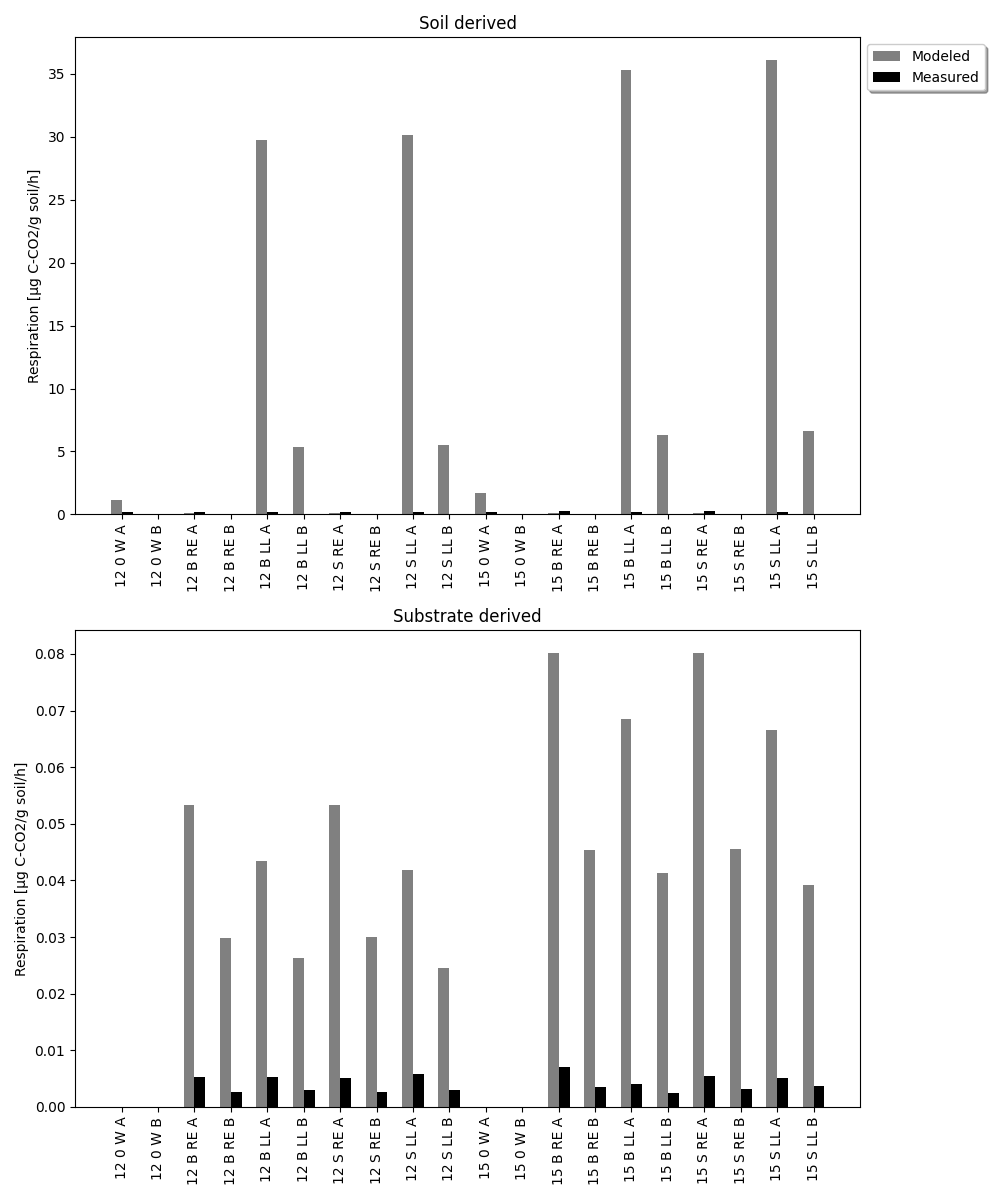
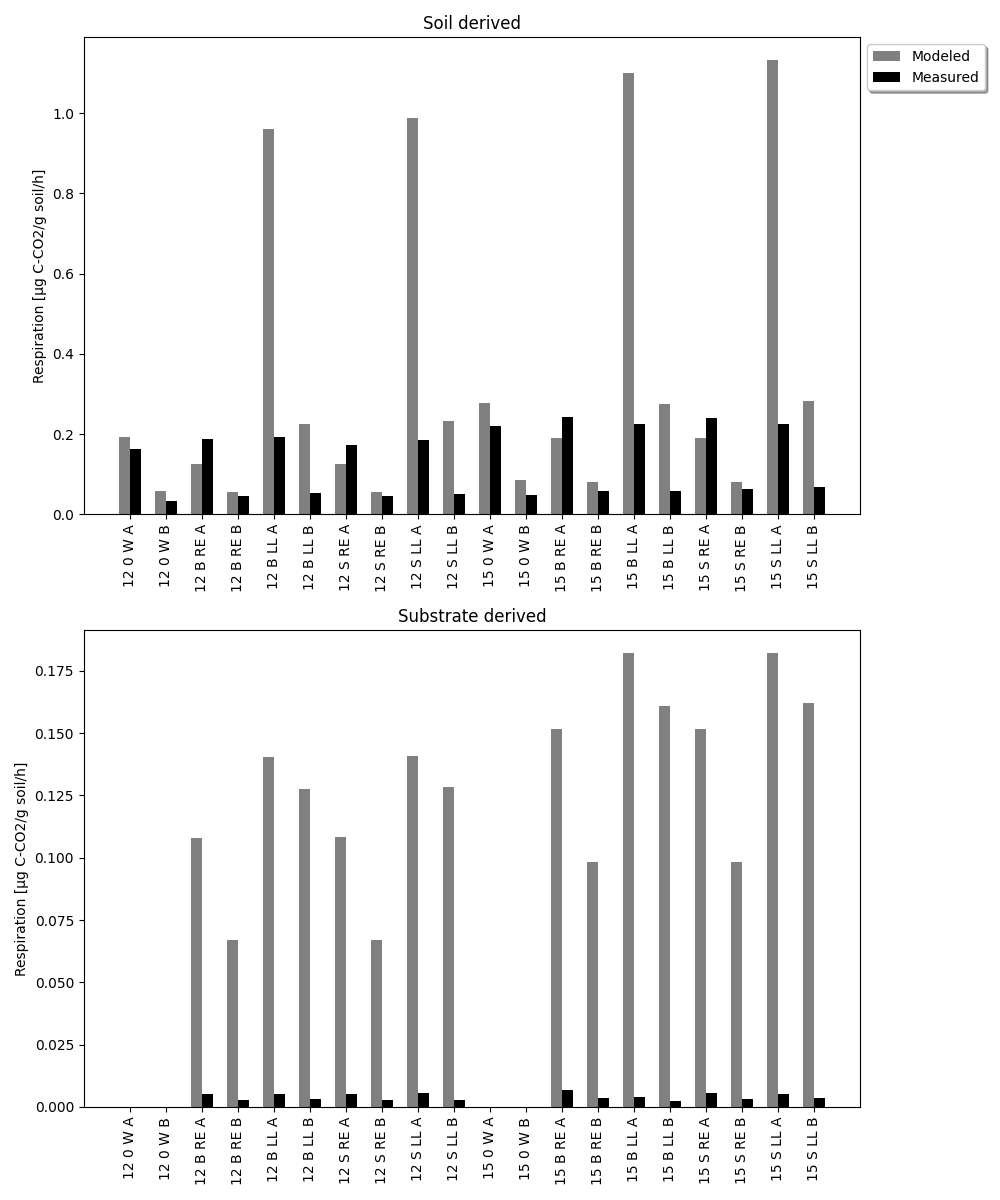
calculate RMSE and EF in functions

diff --git a/Potprim_main.py b/Potprim_main.py
@@ -37,13 +37,11 @@ except FileExistsError:
 
 ############## Modes #################################
 # set allowed values for mode
-modes = Literal[
-    "Normal", "Sensitivity", "Bayesian", "Jilkova2022", "Validation", "Histogram"
-]
+modes = Literal["Normal", "Sensitivity", "Bayesian", "Jilkova2022", "Validation"]
 options = get_args(modes)
 
 # set the mode to Normal, Sensitivity or Bayesian
-mode_ = "Bayesian"
+mode_ = "Validation"
 # check if mode was set correctly, if not stop the run
 assert mode_ in options, f'"{mode_}" is not in "{options}"'
 
@@ -111,6 +109,68 @@ def drawRespPlot(
         plt.savefig(os.path.join("./output/figures/", name))
 
     plt.close()
+
+
+############## RMSE ##################################
+def calculateRMSE(actual, predicted, variable, filepath):
+    actual = np.array(actual)
+    predicted = np.array(predicted)
+
+    rmse = np.sqrt(((predicted - actual) ** 2).mean())
+
+    # save as a one csv file
+    try:
+        os.makedirs(filepath)
+    except FileExistsError:
+        # directory already exists
+        pass
+
+    file_exists = os.path.isfile(os.path.join(filepath, "rmse.csv"))
+    file_is_empty = (
+        file_exists and os.path.getsize(os.path.join(filepath, "rmse.csv")) == 0
+    )
+
+    with open(os.path.join(filepath, "rmse.csv"), newline="", mode="a") as file:
+        csv_writer = csv.writer(file)
+
+        # Write the header
+        if not file_exists or file_is_empty:
+            csv_writer.writerow(["Variable", "RMSE"])
+
+        # Write the key and values to the CSV file
+        csv_writer.writerow([variable, rmse])
+
+
+############## EF (Nash-Sutcliffe Efficiency) ########
+def calculateEF(actual, predicted, variable, filepath):
+    actual = np.array(actual)
+    predicted = np.array(predicted)
+
+    ef = 1 - (
+        np.sum((actual - predicted) ** 2) / np.sum((actual - np.mean(actual)) ** 2)
+    )
+
+    # save as a one csv file
+    try:
+        os.makedirs(filepath)
+    except FileExistsError:
+        # directory already exists
+        pass
+
+    file_exists = os.path.isfile(os.path.join(filepath, "ef.csv"))
+    file_is_empty = (
+        file_exists and os.path.getsize(os.path.join(filepath, "ef.csv")) == 0
+    )
+
+    with open(os.path.join(filepath, "ef.csv"), newline="", mode="a") as file:
+        csv_writer = csv.writer(file)
+
+        # Write the header
+        if not file_exists or file_is_empty:
+            csv_writer.writerow(["Variable", "EF"])
+
+        # Write the key and values to the CSV file
+        csv_writer.writerow([variable, ef])
 
 
 ############## Read data #############################
@@ -601,7 +661,7 @@ if mode_ == "Bayesian":
     """
     actual start of calibration
     """
-    
+
     """
     1) calculate the variance of the parameter space
     """
@@ -649,25 +709,28 @@ if mode_ == "Bayesian":
                 data_measured_days[d] - 1, data_measured_names[d]
             ]
 
-
         # we need to add for the treatment the likelyhood of all measurements added, data_measured is df so other indexing
 
         # if treatment == 3:
         #     print("line 447 safety break ")
         #     break  # safety for now
-        
+
         """
         4) calculate the likelihood of each parameter set for each treatment and store in sim likelihood from the differences between measured and simulated and error
         """
-        for e in range(len(data_measured_colnames)): #for each measured variable calculate loglikelihood
+        for e in range(
+            len(data_measured_colnames)
+        ):  # for each measured variable calculate loglikelihood
 
             likelyhood = BayesianFunctionsPotprim.calc_sim_likelyhood(
                 data_Simulated[treatment][data_measured_colnames[e]],
                 data_measured.iat[treatment, e],
                 data_measured_errors.iat[treatment, e],
             )
-            data_Simulated[treatment]["sim likelihood"] += likelyhood #and add it up for all measured variables for the given treatment
-            
+            data_Simulated[treatment][
+                "sim likelihood"
+            ] += likelyhood  # and add it up for all measured variables for the given treatment
+
             print(
                 "treatment",
                 treatment,
@@ -693,7 +756,7 @@ if mode_ == "Bayesian":
     """
     5) calculate the likelihood of the entire run over all treatments in log_likelihood_sim0
     """
-    #first add up likelihoods across all treatments
+    # first add up likelihoods across all treatments
     likelihood_simulated = 0
     for treatment in range(numTreatments):  # add up likelihood across treatment
         likelihood_simulated += data_Simulated[treatment]["sim likelihood"]
@@ -701,7 +764,9 @@ if mode_ == "Bayesian":
         data_Simulated[treatment]["sim likelihood"] = 0
 
     # then use this sum to calculate average likelihood of this parameter set over all treatments and save in log_likelihood_sim0
-    log_likelihood_sim0 = likelihood_simulated / len(data_measured) #divide by number of treatments
+    log_likelihood_sim0 = likelihood_simulated / len(
+        data_measured
+    )  # divide by number of treatments
     logLseries.append(log_likelihood_sim0)
     """
     6) save best fit, "BestFitParam" is the parameter set giving the highest likelihood (best fit = maximum probability)
@@ -802,7 +867,6 @@ if mode_ == "Bayesian":
                 likelihood_simulated += data_Simulated[treatment]["sim likelihood"]
                 # empty likelihood for next parameter set tries
                 data_Simulated[treatment]["sim likelihood"] = 0
-               
 
             # log_likelihood_sim1 = sum(DiffMeasureSimulated) / len(data_Simulated)
             # divide by number of treatments to obtain average
@@ -1013,7 +1077,7 @@ if mode_ == "Validation":
     weights = [likelihood / total_likelihood for likelihood in likelihoods]
 
     # Actual Latin Hypercube
-    n_samples = 10  # Adjust based on your needs
+    n_samples = 3  # Adjust based on your needs
     sampler = qmc.LatinHypercube(d=len(parameter_sets))
     sample = sampler.random(n=n_samples)
 
@@ -1205,20 +1269,12 @@ if mode_ == "Validation":
                     respSoil_obs.append(column_value)
 
     # Now we will actually calculate the RMSE, yaaay!
-    actual = np.array(respSoil_obs + respSub_obs)
-    predicted = np.array(respSoil_sim + respSub_obs)
+    calculateRMSE(respSoil_obs, respSoil_sim, "respSoil", sharable_path)
+    calculateRMSE(respSub_obs, respSub_sim, "respSubstrate", sharable_path)
 
-    rmse = np.sqrt(((predicted - actual) ** 2).mean())
-
-    # save as a one csv file
-    try:
-        os.makedirs("./output_Bayesian")
-    except FileExistsError:
-        # directory already exists
-        pass
-
-    with open(os.path.join(sharable_path, "rmse.txt"), mode="w") as file:
-        file.write(str(rmse))
+    ######## Calculate EF (Nash-Sutcliffe Efficiency) ########################
+    calculateEF(respSoil_obs, respSoil_sim, "respSoil", sharable_path)
+    calculateEF(respSub_obs, respSub_sim, "respSubstrate", sharable_path)
 
     ################ In case we ever need to calculate RMSE for each treatment separately ######################
     # # Derive respiration from simulated values (modelled in Validation mode)
